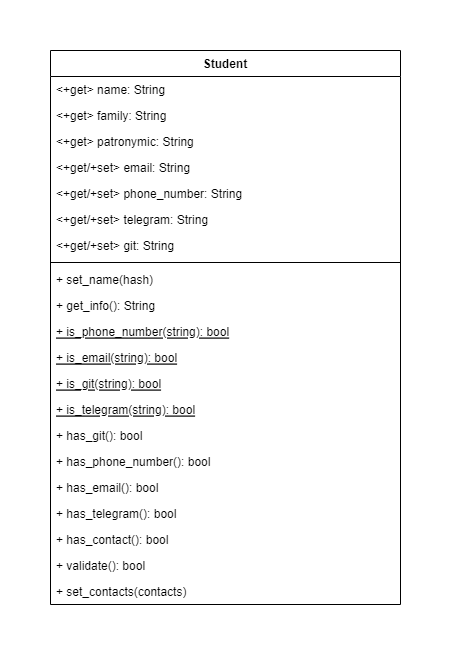
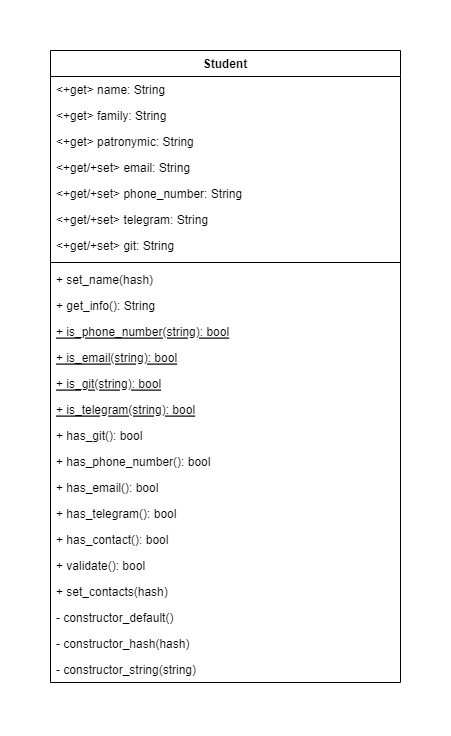
Lab2 ex2-1 Constructor refactoring
Now constructor can get hash or string and call required method for process it.

Also, when setters gets empty string, its uses it for clearing field.

Changed region(s): [[0.1242, 0.0608, 0.9002, 0.9422]]

diff --git a/lab2/student.rb b/lab2/student.rb
@@ -1,19 +1,36 @@
 class Student
 	attr_reader :name, :family, :patronymic, :phone_number, :email, :telegram, :git
 	
-	def initialize(hash)
+	def initialize(hash:nil, string:nil)
+		if hash != nil
+			constructor_hash(hash)
+		elsif string != nil
+			constructor_string(string)
+		else
+			constructor_default()
+		end
+	end
+	
+	private
+	
+	def constructor_default()
+		raise ArgumentError.new "Student constructor needs data."
+	end
+	def constructor_hash(hash)
 		#name, family and patronymic are necessary, others optional
 		if(hash[:name] == nil or hash[:family] == nil or hash[:patronymic] == nil)
 			raise ArgumentError.new "Name, family and patronymic are necessary for constructor."
 		end
-		def_hash = hash
-		def_hash.default = ""
-		set_name(new_name:def_hash[:name], new_family:def_hash[:family], new_patronymic:def_hash[:patronymic])
-		self.phone_number = def_hash[:phone_number]
-		self.email = def_hash[:email]
-		self.telegram = def_hash[:telegram]
-		self.git = def_hash[:git]
+		set_name({name:hash[:name], family:hash[:family], patronymic:hash[:patronymic]})
+		set_contacts({phone_number:hash[:phone_number], email:hash[:email], telegram:hash[:telegram]})
+		self.git = hash[:git]
 	end
+	def constructor_string(string)
+		splitted = string.split(';')
+		constructor_hash({name:splitted[0], family:splitted[1], patronymic:splitted[2], phone_number:splitted[3], email:splitted[4], telegram:splitted[5], git:splitted[6]})
+	end
+	
+	public
 	
 	def set_name(hash)
 		if hash[:name] != nil #if we not input name, not change this
@@ -30,7 +47,7 @@ class Student
 				raise ArgumentError.new "Wrong family."
 			end
 		end
-		if hash[:patronymic] != "" #if we not input patronymic, not change this
+		if hash[:patronymic] != nil #if we not input patronymic, not change this
 			if hash[:patronymic].match(/^[a-zA-Z]+$/)
 				@patronymic = hash[:patronymic].capitalize
 			else
@@ -41,25 +58,25 @@ class Student
 	
 	def phone_number=(new_number)
 		if new_number.class == String
-			if new_number == ""
-				@phone_number = ""
-				return
-			end
-			if Student.is_phone_number(new_number)
+			if new_number.empty?
+				self.phone_number = nil
+			elsif Student.is_phone_number(new_number)
 				@phone_number = new_number
 			else
 				raise ArgumentError.new "#{new_number} is not a phone number."
 			end
 		elsif new_number.class == Integer
 			self.phone_number = (new_number.to_s) #we are integers haters
+		elsif new_number == nil
+			@phone_number = nil
 		else
 			raise TypeError.new "Phone number must be String or Integer."
 		end
 	end
 	
 	def email=(new_email)
-		if new_email == "" # if we set empty string, then we clear email
-			@email = ""
+		if new_email == nil or new_email == "" # if we set nil, then we clear email
+			@email = nil
 		elsif Student.is_email(new_email)
 			@email = new_email
 		else
@@ -69,9 +86,8 @@ class Student
 	
 	def telegram=(new_telegram)
 		if new_telegram.class == String
-			if new_telegram == ""
-				@telegram = "" #clearing telegram field
-				return
+			if new_telegram.empty?
+				self.telegram = nil
 			end
 			dog = false
 			if new_telegram[0] == '@' #check for first staying @
@@ -82,14 +98,16 @@ class Student
 			else
 				raise ArgumentError.new  "Wrong telegram user id."
 			end
+		elsif new_telegram == nil
+			@telegram = nil
 		else
 			raise TypeError.new "Telegram must be String value."
 		end
 	end
 	
 	def git=(new_git)
-		if new_git == "" # if we set empty string, then we clear git
-			@git = ""
+		if new_git == nil or new_git == "" # if we set nil, then we clear git
+			@git = nil
 		elsif Student.is_git(new_git)
 			@git = new_git
 		else
@@ -100,10 +118,10 @@ class Student
 	def get_info
 		info = ""
 		info += "This is info about: #{self.family} #{self.name} #{self.patronymic}" + "\n"
-		info += "Phone number: #{self.phone_number}" + "\n" if self.phone_number != ""
-		info += "Email: #{self.email}" + "\n" if self.email != ""
-		info += "Telegram: #{self.telegram}" + "\n" if self.telegram != ""
-		info += "Git: #{self.git}" + "\n" if self.git != ""
+		info += "Phone number: #{self.phone_number}" + "\n" if self.phone_number != nil
+		info += "Email: #{self.email}" + "\n" if self.email != nil
+		info += "Telegram: #{self.telegram}" + "\n" if self.telegram != nil
+		info += "Git: #{self.git}" + "\n" if self.git != nil
 		return info
 	end
 	
@@ -140,19 +158,19 @@ class Student
 	end
 	
 	def has_git()
-		return git != ""
+		return git != nil
 	end
 	
 	def has_phone_number()
-		return phone_number != ""
+		return phone_number != nil
 	end
 	
 	def has_email()
-		return email != ""
+		return email != nil
 	end
 	
 	def has_telegram()
-		return telegram != ""
+		return telegram != nil
 	end
 	
 	def has_contact()
@@ -164,10 +182,9 @@ class Student
 	end
 	
 	def set_contacts(contacts)
-		temp_contacts = contacts
-		self.email = temp_contacts[:email] if(temp_contacts[:email] != nil)
-		self.phone_number = temp_contacts[:phone_number] if(temp_contacts[:phone_number] != nil)
-		self.telegram = temp_contacts[:telegram] if(temp_contacts[:telegram] != nil)
+		self.email = contacts[:email] if(contacts[:email] != nil)
+		self.phone_number = contacts[:phone_number] if(contacts[:phone_number] != nil)
+		self.telegram = contacts[:telegram] if(contacts[:telegram] != nil)
 	end
 	
 end

diff --git a/lab2/main.rb b/lab2/main.rb
@@ -1,16 +1,19 @@
 require_relative "student.rb"
 
-object1 = Student.new({name:"Arbux", family:"Alebarod", patronymic:"Achekavich", phone_number:"+79189356731", email:"address@mail.sd", telegram:"@ahto_ahaha", git:"https://github.com/CyBeR_uSeR"})
-object2 = Student.new({name:"Ti", family: "Prikki", patronymic:"Noitaich", email:"my_bestEmail3@cybermail.gog", git:"gitlab.com/stellAr"})
-object3 = Student.new({name:"lARrius", family:"VarrO", patronymic:"sToRyViCh", phone_number:79336421496, telegram:"BloodBath"})
+object1 = Student.new(hash:{name:"Arbux", family:"Alebarod", patronymic:"Achekavich", phone_number:"+79189356731", email:"address@mail.sd", telegram:"@ahto_ahaha", git:"https://github.com/CyBeR_uSeR"})
+#object2 = Student.new(hash:{name:"Ti", family: "Prikki", patronymic:"Noitaich", email:"my_bestEmail3@cybermail.gog", git:"gitlab.com/stellAr"})
+#object3 = Student.new(hash:{name:"lARrius", family:"VarrO", patronymic:"sToRyViCh", phone_number:79336421496, telegram:"BloodBath"})
+object4 = Student.new(string:"NAME;FAMILIAR;PAPAPAPA;89882883838;;gigaChad;")
+object5 = Student.new()
 
 puts object1.get_info()
-puts object2.get_info()
-puts object3.get_info()
+#puts object2.get_info()
+#puts object3.get_info()
+puts object4.get_info()
 
-object3.set_contacts({email:"aba@sringe.com", telegram:""})
-puts object3.get_info()
+#object3.set_contacts({email:"aba@sringe.com", telegram:nil})
+#puts object3.get_info()
 
-puts object1.validate()
-puts object2.validate()
-puts object3.validate()
+#puts object1.validate()
+#puts object2.validate()
+#puts object3.validate()
